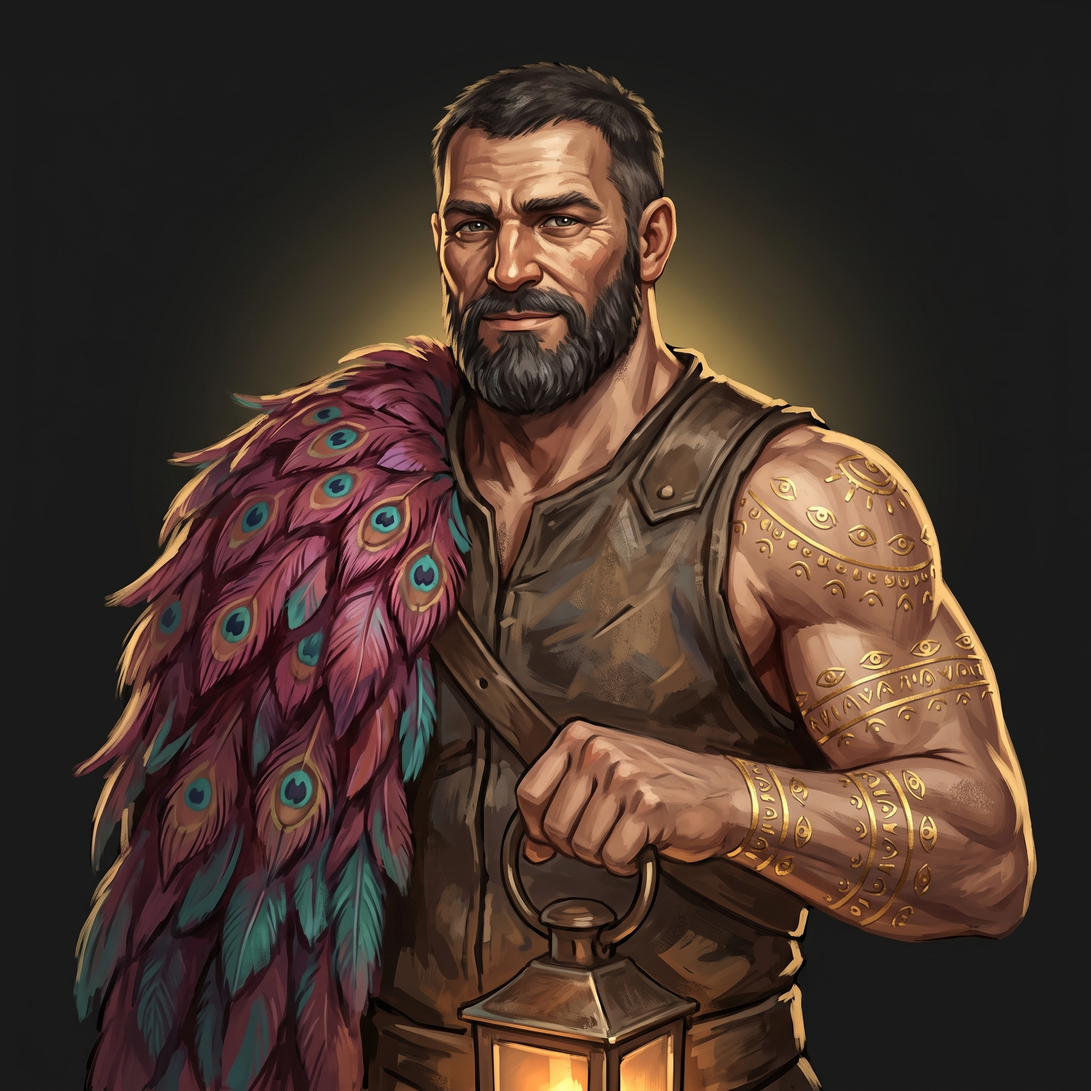
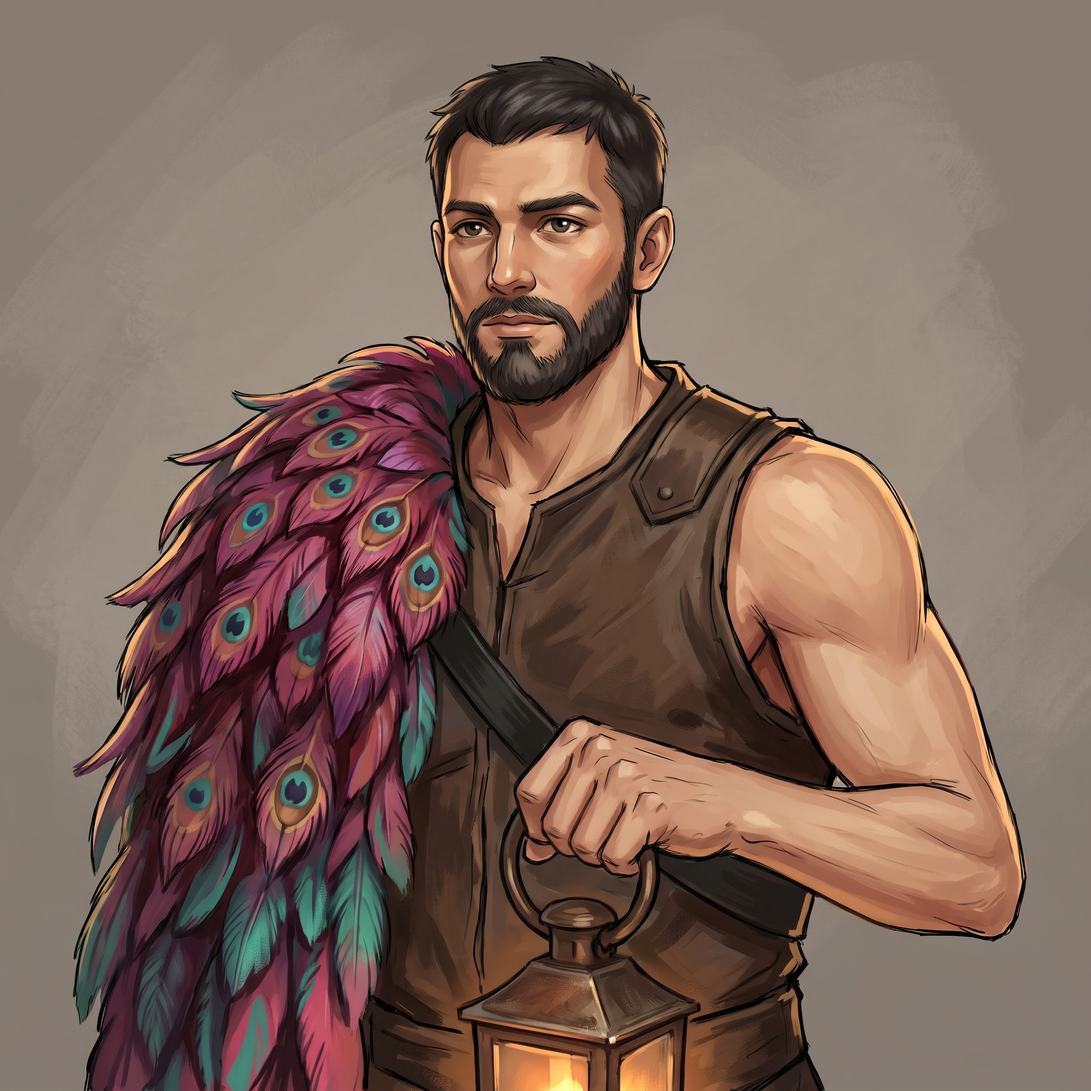
Five redrawn portraits with their prompts; the old originals kept (#301)
* assets: five redrawn portraits (Hesychia, Argos, Chronos, Elpis, Hermes) with their prompts; the 2026-10-20 originals kept

* assets: prompt notes name where the referenced files are now; budget marker fits the file (#301 review)

* assets: note that Hesychia's round-1 image was not kept (#301 verify)

diff --git a/assets/avatars/originals/portrait-prompts.md b/assets/avatars/originals/portrait-prompts.md
@@ -1,8 +1,8 @@
-<!-- budget: 1300 words -->
+<!-- budget: 3800 words -->
 # Portrait prompts: Chronos, Argos, Hermes, Elpis, Hesychia
 
 The full-size originals in this folder were generated by AJ Barea from the briefs below,
-on 2026-10-20, with existing portraits attached as style references. The prompts for the first
+on 2026-10-20 (five redrawn on 2026-11-01, at the end), with existing portraits attached as style references. The prompts for the first
 ten characters were never recorded; these are kept beside the art so a regeneration pass can
 reproduce or iterate on the look. The klepsydra fleet wall crops its faces from these files.
 
@@ -160,3 +160,195 @@ one the same way.
 - Hermes's kerykeion, petasos and talaria: web.uvic.ca/lancenrd/classical_myth/gods/hermes_i.html
 - Elpis and Pandora's jar: theoi.com/Daimon/Elpis.html
 - Kourai style: deleted `docs/art-direction.md` (`git show 0fe8f44a^:docs/art-direction.md`) and `assets/setting/setting-concepts.md`
+
+## Redraws, 2026-11-01
+
+On 2026-11-01 AJ replaced five portraits. The 2026-10-20 originals stay in this folder as `<name>-2026-10-20.jpg`; `<name>.jpg` is the current one. The prompts below name files as they were in AJ's working folder: `<name>_current.jpg` is now `<name>-2026-10-20.jpg`, and `*_neutral.png` are in `../vn/`. `Gemini_Generated_Image_hoypalhoypalhoyp.jpg` was Hesychia's round 1 and was not kept.
+
+- **Hesychia** was redrawn because she and Elpis read as one face: both briefs said "dark hair loosely bound" and both were made from the same references (Hephaestus, Aletheia, Kallos). The new brief attaches Hephaestus for framing only. AJ picked round 3 from Gemini. Her three prompts follow in order.
+- **Argos, Chronos, Elpis and Hermes** were re-prompted from their own portraits to match the first ten's rendering: plain warm grey background, no gold glow, natural skin. Chronos lost the zodiac ring. Each re-prompt follows.
+
+### Hesychia, Keeper of Quiet: new portrait
+
+#### 1. Attach
+
+- `hephaestus_neutral.png` (in this folder), for framing only.
+- Nothing else. Do not attach Elpis, Aletheia, Kallos or the old Hesychia: the old portrait copied their face.
+
+#### 2. Paste: style block
+
+Painterly, semi-realistic character portrait. Digital painting with confident thick brushwork, bold clean silhouette, expressive face. Ancient Greek myth recast as a divine forge-atelier: the character is an artisan or servant of a craft, not a warrior. Square 640x640 bust portrait, mid-torso up, three-quarter turn, the figure slightly right of centre with the near shoulder toward the viewer. The head sits in the upper middle of the frame. Plain deep charcoal background (#1A1A1A). Lighting: cool moonlight is the main light; only a faint warm gold glow sits low behind the shoulders. Palette: moonlit silver-blue (#A9B8D0), night blue, pale silver, with small touches of honeyed gold (#C9944A). Match the rendering, framing and level of detail of the attached reference portrait exactly, but not its face.
+
+#### 3. Paste: character block
+
+A woman in her thirties with a long, calm face, a straight nose and level dark brows, dark hair worn up. She wears a silver-blue silk night chiton in a slip style, with thin straps, bare shoulders and arms, the silk clinging softly and catching the moonlight, and a high slit at the side. A pale gauze veil has slipped back off her hair and drapes loosely from one shoulder. Her gaze is half-lidded and knowing, with a slow, faint smile. One hand rests at her collarbone, holding a ring of two old golden keys on a dark cord (the keys of counsel and war). Cool moonlight from the upper left traces her shoulders and the silk. Languid, elegant, alluring, unhurried.
+
+#### 4. Paste: negative prompt
+
+nudity, see-through fabric, explicit pose, anime, large eyes, chibi, pastel colour wash, photorealistic, 3D render, CGI, grimdark, armour, weapons, text, watermark, logo, signature, border, frame, multiple characters, cropped head, full body, busy background, a finger to the lips, flowers, a jar, loose hair framing the face, a halo.
+
+#### 5. Tips
+
+- If a generator refuses, drop "alluring" and "high slit" first.
+- Want her more modest: use the veiled version on klepsydra#247 instead of the section 3 block.
+
+#### 6. When you have one you like
+
+Save it (and a transparent version if the generator makes one) to `Downloads\hesychia\` and tell Heph. The original and this prompt go to kourai-khryseai, the crops to the app, and the old portrait is kept.
+
+### Hesychia, round 2 (in the Gemini chat that made the first one)
+
+#### 1. Attach
+
+- Nothing new. Stay in the same Gemini chat so it keeps her face and style.
+- If you start a new chat: attach `Gemini_Generated_Image_hoypalhoypalhoyp.jpg` (her) and `hephaestus_neutral.png` (framing).
+
+#### 2. Paste: edit request
+
+Keep this exact woman, face, hairstyle, veil, slip dress, keys and painting style. Change only the pose and the light:
+- Turn her to a three-quarter view, her body angled toward the left of the frame, with her near shoulder toward the viewer, and place her slightly right of centre, like the attached Hephaestus portrait.
+- Make cool moonlight the main light, from the upper left: a crisp silver-blue rim along her veil, cheekbone, shoulder and the silk, and soft blue shadows. Keep only a faint warm glow low behind her shoulders.
+- Let the veil catch the moonlight and fall in softer, lighter folds, more gauze than bridal.
+- Keep her gaze half-lidded and knowing, the smile slow and faint.
+- Square 640x640, bust from mid-torso up, plain deep charcoal background.
+
+#### 3. Paste: if it changes her face
+
+Keep her face exactly as in the first image. Only the pose and lighting change.
+
+#### 4. When you have one
+
+Save it beside the others in this folder and tell Heph.
+
+### Hesychia, round 3 (the chosen one)
+
+Pasted in the same Gemini chat after round 2 (AJ picked this one):
+
+She wears a silver-blue silk night chiton in a slip style, with thin straps, bare shoulders and arms, the silk clinging softly and catching the moonlight, and a high slit at the side. A pale gauze veil has slipped back off her hair and drapes loosely from one shoulder. Her gaze is half-lidded and knowing, with a slow, faint smile. One hand rests at her collarbone, holding the ring of two golden keys on its dark cord. Cool moonlight from the upper left traces her shoulders and the silk; a faint warm glow sits low behind her. Languid, elegant, alluring, unhurried.
+
+Avoid: nudity, see-through fabric, explicit poses, a finger to the lips, flowers, a jar.
+
+### Argos, the Hundred-Eyed Watch: re-prompt to match the original cast
+
+#### 1. Attach (all in this folder)
+
+- `argos_current.jpg`: the character to keep.
+- `puck_neutral.png` `techne_neutral.png` : style references from the original ten (the golden maidens).
+- Nothing else.
+
+#### 2. Paste: edit request
+
+Redraw the character in the first image in the exact style of the other attached portraits (match their rendering and background only, not their gold bodies). Keep: his face, beard, peacock-feather mantle, lantern and watchful expression, but make him leaner and younger than now so he no longer reads as a second Hephaestus. Change:
+- Background: plain warm mid-grey with visible soft brush texture, like the style references, with no gold glow or halo behind the figure and no objects in the background.
+- Body: keep natural skin; this character is a god or spirit visiting the forge, not one of its golden maidens.
+- Rendering: the same semi-realistic painted style, ink-like outlines and soft rim light as the style references, not photorealistic.
+- Square 640x640, bust from mid-torso up, three-quarter turn, figure slightly right of centre, head in the upper middle.
+
+#### 3. Paste: negative prompt
+
+photorealistic, real person likeness, 3D render, CGI, anime, chibi, grimdark, armour, weapons, text, watermark, logo, signature, border, frame, multiple characters, cropped head, busy background, gold halo or glow behind the figure, zodiac ring, nudity
+
+#### 4. Tips
+
+- If the face drifts, paste: "Keep the face from the first image exactly; change only the style, background and the gold details."
+- If the gold takes over, paste: "Less gold: keep the face and skin natural, gold only on the forearms and hands."
+
+- If you want the golden-maiden look after all, paste: "Add a forged-gold touch: forearms and hands of articulated burnished gold with fine seams, and small gold eye motifs set into the peacock-feather mantle."
+
+#### 5. When you have one
+
+Save it in this folder and tell Heph. The original and this prompt go to kourai-khryseai, the crops to the app, and the old portrait is kept.
+
+### Chronos, Keeper of the Hours: re-prompt to match the original cast
+
+#### 1. Attach (all in this folder)
+
+- `chronos_current.jpg`: the character to keep.
+- `metis_neutral.png` `techne_neutral.png` : style references from the original ten (the golden maidens).
+- Nothing else.
+
+#### 2. Paste: edit request
+
+Redraw the character in the first image in the exact style of the other attached portraits (match their rendering and background only, not their gold bodies). Keep: his face, silver beard, robes and the hourglass he holds; remove the zodiac ring behind him. Change:
+- Background: plain warm mid-grey with visible soft brush texture, like the style references, with no gold glow or halo behind the figure and no objects in the background.
+- Body: keep natural skin; this character is a god or spirit visiting the forge, not one of its golden maidens.
+- Rendering: the same semi-realistic painted style, ink-like outlines and soft rim light as the style references, not photorealistic.
+- Square 640x640, bust from mid-torso up, three-quarter turn, figure slightly right of centre, head in the upper middle.
+
+#### 3. Paste: negative prompt
+
+photorealistic, real person likeness, 3D render, CGI, anime, chibi, grimdark, armour, weapons, text, watermark, logo, signature, border, frame, multiple characters, cropped head, busy background, gold halo or glow behind the figure, zodiac ring, nudity
+
+#### 4. Tips
+
+- If the face drifts, paste: "Keep the face from the first image exactly; change only the style, background and the gold details."
+- If the gold takes over, paste: "Less gold: keep the face and skin natural, gold only on the forearms and hands."
+
+- If you want the golden-maiden look after all, paste: "Add a forged-gold touch: a gold hand and forearm with clockwork seams holding the hourglass, and gold inlay at the temples."
+
+#### 5. When you have one
+
+Save it in this folder and tell Heph. The original and this prompt go to kourai-khryseai, the crops to the app, and the old portrait is kept.
+
+### Elpis, Hope That Stayed: re-prompt to match the original cast
+
+#### 1. Attach (all in this folder)
+
+- `elpis_current.jpg`: the character to keep.
+- `kallos_neutral.png` `mneme_neutral.png` : style references from the original ten (the golden maidens).
+- Nothing else.
+
+#### 2. Paste: edit request
+
+Redraw the character in the first image in the exact style of the other attached portraits (match their rendering and background only, not their gold bodies). Keep: her face, smile, flowers in her hair, cream-and-gold peplos, bronze pithos with light rising from it, and the white flowers. Change:
+- Background: plain warm mid-grey with visible soft brush texture, like the style references, with no gold glow or halo behind the figure and no objects in the background.
+- Body: keep natural skin; this character is a god or spirit visiting the forge, not one of its golden maidens.
+- Rendering: the same semi-realistic painted style, ink-like outlines and soft rim light as the style references, not photorealistic.
+- Square 640x640, bust from mid-torso up, three-quarter turn, figure slightly right of centre, head in the upper middle.
+
+#### 3. Paste: negative prompt
+
+photorealistic, real person likeness, 3D render, CGI, anime, chibi, grimdark, armour, weapons, text, watermark, logo, signature, border, frame, multiple characters, cropped head, busy background, gold halo or glow behind the figure, zodiac ring, nudity
+
+#### 4. Tips
+
+- If the face drifts, paste: "Keep the face from the first image exactly; change only the style, background and the gold details."
+- If the gold takes over, paste: "Less gold: keep the face and skin natural, gold only on the forearms and hands."
+
+- If you want the golden-maiden look after all, paste: "Add a forged-gold touch: gold skin with fine seams at the wrists and shoulders, like a golden maiden, while keeping her warm, gentle face."
+
+#### 5. When you have one
+
+Save it in this folder and tell Heph. The original and this prompt go to kourai-khryseai, the crops to the app, and the old portrait is kept.
+
+### Hermes, Herald of the Gods: re-prompt to match the original cast
+
+#### 1. Attach (all in this folder)
+
+- `hermes_current.jpg`: the character to keep.
+- `puck_neutral.png` `techne_neutral.png` : style references from the original ten (the golden maidens).
+- Nothing else.
+
+#### 2. Paste: edit request
+
+Redraw the character in the first image in the exact style of the other attached portraits (match their rendering and background only, not their gold bodies). Keep: his face, grin, winged hat, caduceus and travelling cloak. Change:
+- Background: plain warm mid-grey with visible soft brush texture, like the style references, with no gold glow or halo behind the figure and no objects in the background.
+- Body: keep natural skin; this character is a god or spirit visiting the forge, not one of its golden maidens.
+- Rendering: the same semi-realistic painted style, ink-like outlines and soft rim light as the style references, not photorealistic.
+- Square 640x640, bust from mid-torso up, three-quarter turn, figure slightly right of centre, head in the upper middle.
+
+#### 3. Paste: negative prompt
+
+photorealistic, real person likeness, 3D render, CGI, anime, chibi, grimdark, armour, weapons, text, watermark, logo, signature, border, frame, multiple characters, cropped head, busy background, gold halo or glow behind the figure, zodiac ring, nudity
+
+#### 4. Tips
+
+- If the face drifts, paste: "Keep the face from the first image exactly; change only the style, background and the gold details."
+- If the gold takes over, paste: "Less gold: keep the face and skin natural, gold only on the forearms and hands."
+
+- If you want the golden-maiden look after all, paste: "Add a forged-gold touch: gold skin on the hands and forearms with fine seams, gold wings on the hat and sandals catching light."
+
+#### 5. When you have one
+
+Save it in this folder and tell Heph. The original and this prompt go to kourai-khryseai, the crops to the app, and the old portrait is kept.
+
